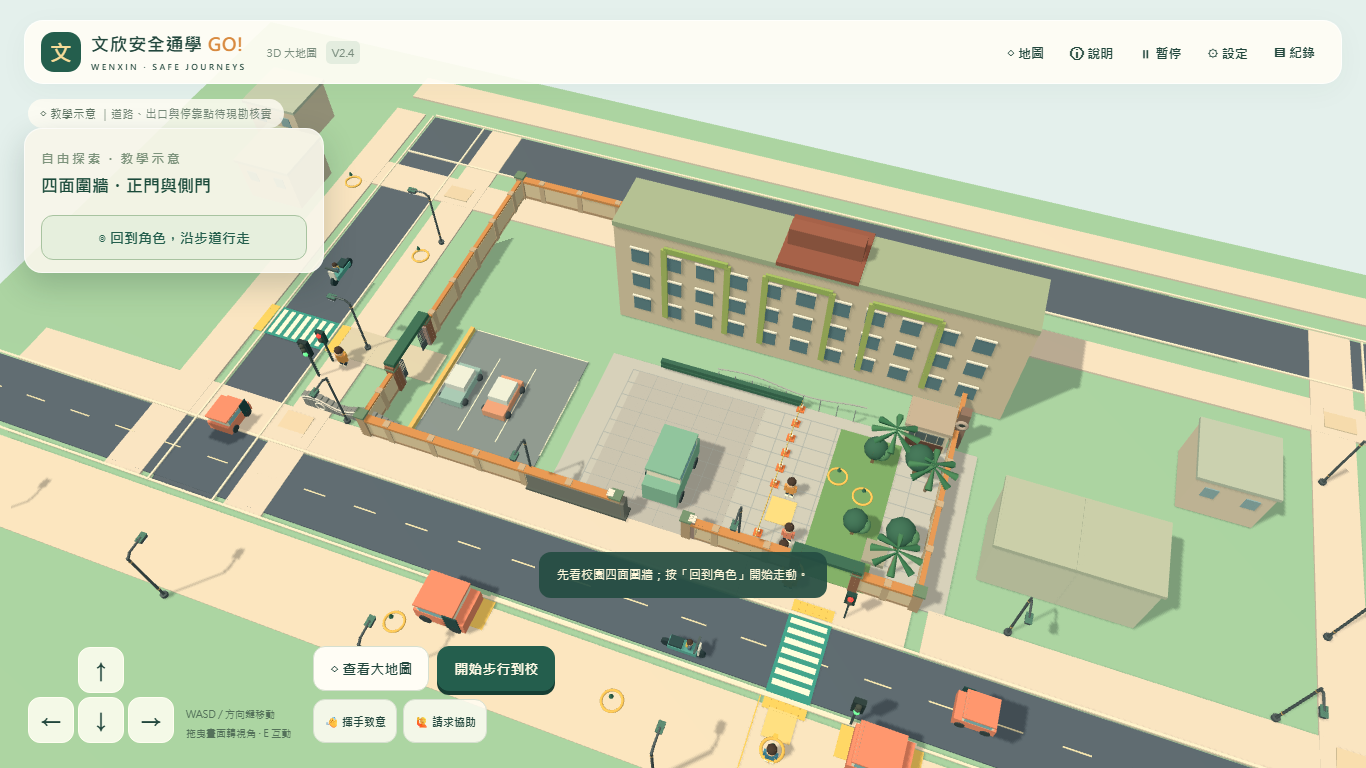
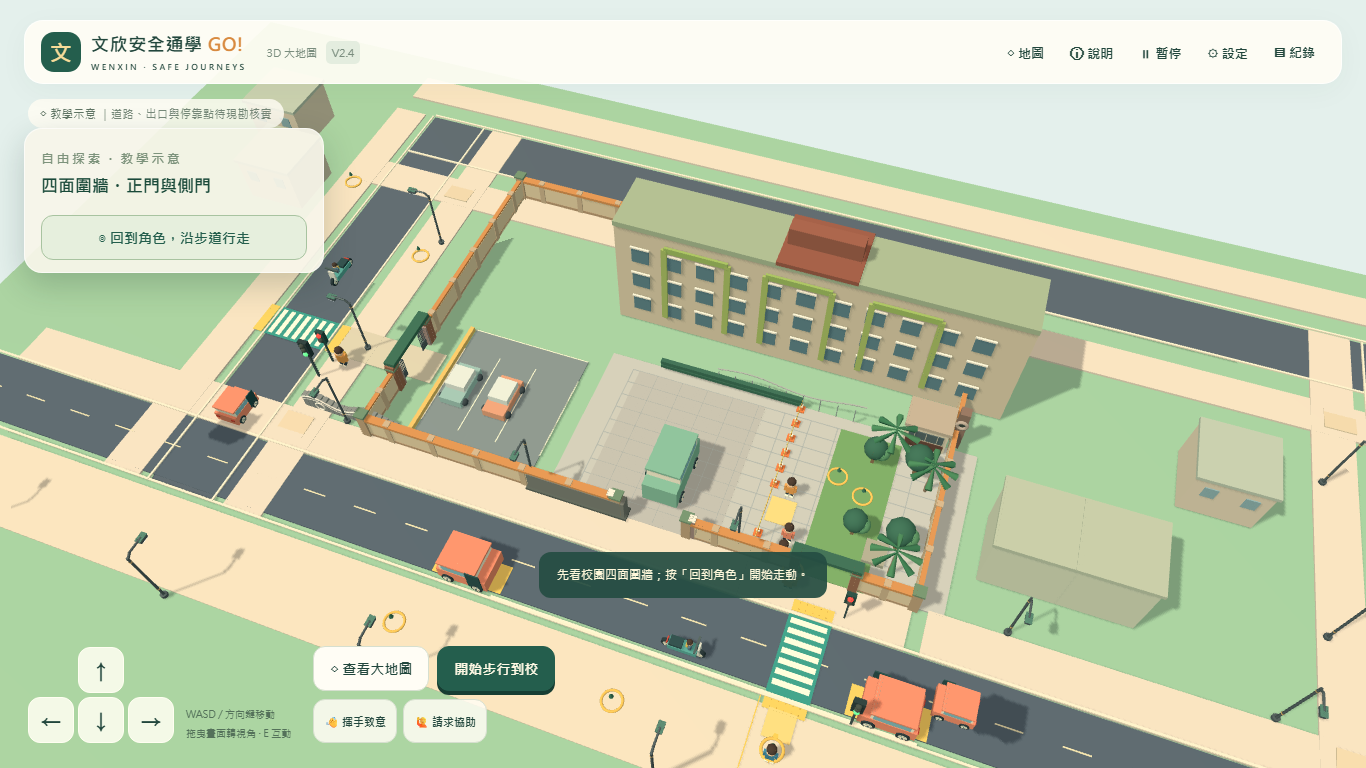
Animate vehicle wheels and braking in 3D

Changed region(s): [[0.6149, 0.875, 0.7379, 1.0], [0.2767, 0.6875, 0.3997, 0.8438], [0.1537, 0.5, 0.1845, 0.5625]]

diff --git a/src/world.ts b/src/world.ts
@@ -11,7 +11,7 @@ export class World {
   greenLamp!:THREE.Mesh;redLamp!:THREE.Mesh;guardArm!:THREE.Mesh;belt!:THREE.Mesh;parentBelt!:THREE.Mesh;helmet!:THREE.Mesh;stationRoof!:THREE.Mesh;
   sideGreenLamp!:THREE.Mesh;sideRedLamp!:THREE.Mesh;sideGuardArm!:THREE.Mesh;
   private pedestrianFigures:THREE.Group[]=[];private pedestrianFigureMaterial=this.mat(0x315f4e);private vehicleSignals:{red:THREE.Mesh;amber:THREE.Mesh;green:THREE.Mesh}[]=[];
-  yaw=.3;distance=25;overview=false;reduced=false;low=false;private focus=new THREE.Vector3(-3,0,-2);private ray=new THREE.Raycaster();private clock=0;private lastMode='';private objects:THREE.Object3D[]=[];private readonly labels=new Set<THREE.Sprite>();private readonly labelPosition=new THREE.Vector3();private readonly mapFog=new THREE.Fog(0xe4f0ec,75,225);
+  yaw=.3;distance=25;overview=false;reduced=false;low=false;private focus=new THREE.Vector3(-3,0,-2);private ray=new THREE.Raycaster();private clock=0;private lastMode='';private objects:THREE.Object3D[]=[];private readonly labels=new Set<THREE.Sprite>();private readonly labelPosition=new THREE.Vector3();private readonly mapFog=new THREE.Fog(0xe4f0ec,75,225);private readonly wheelOrigins=new WeakMap<THREE.Group,{x:number;z:number}>();
   constructor(readonly container:HTMLElement){
     this.scene.background=new THREE.Color(0xe4f0ec);this.scene.fog=this.mapFog;
     this.renderer=new THREE.WebGLRenderer({antialias:true,alpha:false,powerPreference:'high-performance'});this.renderer.setPixelRatio(Math.min(devicePixelRatio,1.7));this.renderer.shadowMap.enabled=true;this.renderer.shadowMap.type=THREE.PCFShadowMap;this.renderer.outputColorSpace=THREE.SRGBColorSpace;container.append(this.renderer.domElement);this.renderer.domElement.setAttribute('aria-label','可移動角色的 3D 文欣校門教學示意場景');
@@ -22,6 +22,26 @@ export class World {
   mat(color:number){return new THREE.MeshStandardMaterial({color,roughness:.84,metalness:0});}
   box(w:number,h:number,d:number,color:number,x:number,y:number,z:number,parent:THREE.Object3D=this.root){const mesh=new THREE.Mesh(new THREE.BoxGeometry(w,h,d),this.mat(color));mesh.position.set(x,y,z);mesh.castShadow=true;mesh.receiveShadow=true;parent.add(mesh);return mesh;}
   ball(r:number,color:number,x:number,y:number,z:number,parent:THREE.Object3D=this.root){const mesh=new THREE.Mesh(new THREE.SphereGeometry(r,10,7),this.mat(color));mesh.position.set(x,y,z);mesh.castShadow=true;parent.add(mesh);return mesh;}
+  private wheel(radius:number,width:number,x:number,y:number,z:number,parent:THREE.Group,side=0){
+    const rolling=new THREE.Group();rolling.position.set(x,y,z);rolling.userData.radius=radius;
+    const tire=new THREE.Mesh(new THREE.CylinderGeometry(radius,radius,width,18),this.mat(0x263a40));tire.rotation.z=Math.PI/2;tire.castShadow=true;rolling.add(tire);
+    for(const face of side===0?[-1,1]:[side]){
+      const rim=new THREE.Mesh(new THREE.CylinderGeometry(radius*.67,radius*.67,.025,18),this.mat(0xb6c8bd));rim.rotation.z=Math.PI/2;rim.position.x=face*(width/2+.015);rolling.add(rim);
+      for(let i=0;i<5;i++){const spoke=new THREE.Group();spoke.rotation.x=i*Math.PI*2/5;this.box(.035,radius*.62,.055,0xffedd0,face*(width/2+.038),radius*.34,0,spoke);rolling.add(spoke);}
+      const hub=new THREE.Mesh(new THREE.CylinderGeometry(radius*.17,radius*.17,.045,12),this.mat(0x486a70));hub.rotation.z=Math.PI/2;hub.position.x=face*(width/2+.05);rolling.add(hub);
+    }
+    parent.add(rolling);const wheels=(parent.userData.wheels??=[]) as THREE.Group[];wheels.push(rolling);return rolling;
+  }
+  private rollVehicle(vehicle:THREE.Group,dt:number){
+    const old=this.wheelOrigins.get(vehicle),next={x:vehicle.position.x,z:vehicle.position.z};this.wheelOrigins.set(vehicle,next);
+    if(!old||dt<=0)return;
+    const dx=next.x-old.x,dz=next.z-old.z;
+    if(Math.hypot(dx,dz)>8)return; // The next traffic cycle repositions a car offscreen.
+    const travel=dx*Math.sin(vehicle.rotation.y)+dz*Math.cos(vehicle.rotation.y);
+    for(const wheel of (vehicle.userData.wheels??[]) as THREE.Group[])wheel.rotation.x+=travel/((wheel.userData.radius as number)*vehicle.scale.x);
+  }
+  private wheelAngle(vehicle:THREE.Group){return (((vehicle.userData.wheels??[]) as THREE.Group[])[0]?.rotation.x??0).toFixed(3);}
+  private setBrakes(vehicle:THREE.Group,on:boolean){for(const lamp of (vehicle.userData.brakeLights??[]) as THREE.Mesh[]){const material=lamp.material as THREE.MeshStandardMaterial;material.emissive.setHex(on?0xff392d:0x000000);material.emissiveIntensity=on?1.2:0;}}
   label(text:string,x:number,y:number,z:number,width=4,parent:THREE.Object3D=this.root,bg='#fff8e6',fg='#234e43'){
     const canvas=document.createElement('canvas');canvas.width=768;canvas.height=160;const c=canvas.getContext('2d')!;c.fillStyle=bg;c.beginPath();c.roundRect(0,0,768,160,22);c.fill();c.fillStyle=fg;c.font='bold 62px "Microsoft JhengHei", sans-serif';c.textAlign='center';c.textBaseline='middle';c.fillText(text,384,82,730);const tex=new THREE.CanvasTexture(canvas);tex.colorSpace=THREE.SRGBColorSpace;const sprite=new THREE.Sprite(new THREE.SpriteMaterial({map:tex,depthTest:true}));sprite.position.set(x,y,z);sprite.scale.set(width,width*160/768,1);sprite.userData.labelText=text;sprite.visible=false;parent.add(sprite);this.labels.add(sprite);return sprite;
   }
@@ -96,7 +116,7 @@ export class World {
     this.label('正門向外看：左側樹蔭・學生步道',7,1.6,-5,6);this.label('正門向外看：右側安親班接駁車・示意',-7,2,-11,7);this.label('文昌五街・教學示意',0,2.7,13,5);this.label('校車區・校門外示意',30,2.7,13,5);
     this.label('汽車送學短停・正門西側示意',-16,2.7,13,6);this.label('汽車送學短停・正門東側示意',12,2.7,13,6);
     this.label('機車依序停妥・正門口示意',-1,2.5,15,5);this.label('機車依序停妥・側門口示意',-33,2.5,-15,5);
-    this.box(6,.03,2,0xeecb79,30,.02,8.6);this.box(5,.03,2,0xf1ce68,-16,.02,8.6);this.box(5,.03,2,0xf1ce68,12,.02,8.6);this.box(3,.05,3,0xc8d8c0,18,.03,11);
+    this.box(6,.03,2,0xeecb79,30,.02,8.6);this.box(5,.03,2,0xf1ce68,-16,.02,6);this.box(5,.03,2,0xf1ce68,12,.02,6);this.box(3,.05,3,0xc8d8c0,18,.03,11);
     this.box(5,.12,42,0x566675,-38,-.1,-13.5);this.label('復興北路・示意',-38,2,-3,4);this.box(5,.12,42,0x566675,43,-.1,-13.5);this.label('文化一路・示意',43,2,-3,4);this.box(85,.12,5,0x566675,2,-.1,-32);this.label('復興一路・示意',2,2,-32,4);
     this.box(.07,.03,6,palette.yellow,4.4,.04,10.5);this.label('留在人行空間候車',2,1,13.5,3);
     this.box(1.8,.04,2,0xf4d686,2,.08,-5);this.box(1.8,.04,1.8,0xf4d686,6,.08,9);
@@ -174,16 +194,18 @@ export class World {
     },undefined,()=>{this.container.dataset.streetAssets='failed';this.label('路燈模型待載入',-6,2,13,3);});
   }
   buildExploreMarkers(){this.root.add(this.exploreMarkers);for(const site of exploreSites){const g=new THREE.Group();const ring=new THREE.Mesh(new THREE.TorusGeometry(.66,.09,8,24),this.mat(0xf3c55e));ring.rotation.x=-Math.PI/2;ring.position.y=.11;g.add(ring);const pin=new THREE.Mesh(new THREE.ConeGeometry(.16,.38,7),this.mat(0x34705c));pin.position.y=1.1;g.add(pin);this.label(`${site.scenario.icon} ${site.scenario.label}`,0,1.9,0,3.3,g);g.position.set(site.entry.x,0,site.entry.z);g.userData.siteId=site.scenario.id;this.exploreMarkers.add(g);}}
-  buildLandmarkVehicles(){this.root.add(this.landmarkVehicles);for(const [kind,x,z] of [['school_bus',30,9],['parent',-16,9],['parent',12,9],['scooter',-1,6.5],['scooter',-38,-14],['after_school_shuttle',-6,-5],['mrt',64,3]] as const){const vehicle=this.makeVehicle(kind);vehicle.position.set(x,0,z);if(kind!=='mrt'&&(z>=7||kind==='scooter'&&x===-1))vehicle.rotation.y=Math.PI/2;this.landmarkVehicles.add(vehicle);}}
+  buildLandmarkVehicles(){this.root.add(this.landmarkVehicles);for(const [kind,x,z] of [['school_bus',30,9],['parent',-16,6],['parent',12,6],['scooter',-1,6.5],['scooter',-38,-14],['after_school_shuttle',-6,-5],['mrt',64,3]] as const){const vehicle=this.makeVehicle(kind);vehicle.position.set(x,0,z);if(kind!=='mrt'&&(z>=7||kind==='parent'||kind==='scooter'&&x===-1))vehicle.rotation.y=x>=0?-Math.PI/2:Math.PI/2;this.landmarkVehicles.add(vehicle);}}
   cone(x:number,z:number){this.box(.58,.1,.58,0xf37f44,x,.1,z);const cone=new THREE.Mesh(new THREE.ConeGeometry(.23,.75,8),this.mat(0xf4874c));cone.position.set(x,.5,z);cone.castShadow=true;this.root.add(cone);this.box(.24,.13,.24,0xfff9e6,x,.54,z);}
   chain(start:number,end:number){for(let z=start;z<end;z+=.15){const mesh=new THREE.Mesh(new THREE.TorusGeometry(.1,.022,4,7),this.mat(0xf2d56e));mesh.rotation.y=Math.PI/2;mesh.rotation.x=Math.round(z/.15)%2?Math.PI/3:0;mesh.position.set(1,.95,z);this.root.add(mesh);}}
-  makeTrain(){const g=new THREE.Group();for(const offset of [-8,0,8]){const car=new THREE.Group();this.box(2.55,2.35,7.45,0xb4a0ca,0,1.47,0,car);this.box(2.55,.25,7.45,0x775e9b,0,2.75,0,car);for(const z of [-2.6,-1.5,1.45,2.55])for(const x of [-1.3,1.3])this.box(.04,.85,.8,0x83bfcc,x,2,z,car);this.box(.07,1.85,1.25,0xe8e3d0,-1.32,1.45,.1,car).userData.action='board';for(const z of [-2.4,2.4])this.box(.4,.48,.65,0x34454e,0,.38,z,car);car.position.z=offset;g.add(car);}this.label('普通車・3 節車廂・示意',0,3.4,0,5,g);g.traverse(o=>{o.userData.vehicle=true;});return g;}
+  makeTrain(){const g=new THREE.Group();for(const offset of [-8,0,8]){const car=new THREE.Group();this.box(2.55,2.35,7.45,0xb4a0ca,0,1.47,0,car);this.box(2.55,.25,7.45,0x775e9b,0,2.75,0,car);for(const z of [-2.6,-1.5,1.45,2.55])for(const x of [-1.3,1.3])this.box(.04,.85,.8,0x83bfcc,x,2,z,car);this.box(.07,1.85,1.25,0xe8e3d0,-1.32,1.45,.1,car).userData.action='board';for(const z of [-2.4,2.4]){this.box(.4,.48,.65,0x34454e,0,.38,z,car);for(const x of [-1.16,1.16])this.wheel(.27,.14,x,.33,z,car,Math.sign(x));}car.position.z=offset;g.add(car);const wheels=(g.userData.wheels??=[]) as THREE.Group[];wheels.push(...(car.userData.wheels as THREE.Group[]));}this.label('普通車・3 節車廂・示意',0,3.4,0,5,g);g.traverse(o=>{o.userData.vehicle=true;});return g;}
   makeVehicle(kind:string){if(kind==='mrt')return this.makeTrain();const g=new THREE.Group();if(kind==='scooter'){
-      for(const z of [-1.05,1.05]){const wheel=new THREE.Mesh(new THREE.CylinderGeometry(.42,.42,.22,14),this.mat(0x263f46));wheel.rotation.z=Math.PI/2;wheel.position.set(0,.43,z);g.add(wheel);}
-      this.box(.72,.42,1.9,0x55a7a0,0,.66,0,g);this.box(.65,.22,.85,0x284c50,0,1,-.45,g);this.box(.12,1.05,.12,0x4e6264,0,1.1,.9,g);this.box(1.15,.12,.14,0x4e6264,0,1.6,.9,g);this.box(.55,.9,.12,0xe3e7dd,0,1.05,1.06,g);const rider=this.person(0x547c91);rider.scale.setScalar(.62);rider.position.set(0,.62,.45);g.add(rider);this.label('機車接送・示意',0,2.5,0,3,g);g.traverse(o=>{o.userData.vehicle=true;});return g;
+      for(const z of [-1.05,1.05])this.wheel(.42,.22,0,.43,z,g);
+      this.box(.72,.42,1.9,0x55a7a0,0,.66,0,g);this.box(.65,.22,.85,0x284c50,0,1,-.45,g);this.box(.12,1.05,.12,0x4e6264,0,1.1,.9,g);this.box(1.15,.12,.14,0x4e6264,0,1.6,.9,g);this.box(.55,.9,.12,0xe3e7dd,0,1.05,1.06,g);g.userData.brakeLights=[this.box(.45,.18,.08,0xc9493c,0,.91,-1.04,g)];const rider=this.person(0x547c91);rider.scale.setScalar(.62);rider.position.set(0,.62,.45);g.add(rider);this.label('機車接送・示意',0,2.5,0,3,g);g.traverse(o=>{o.userData.vehicle=true;});return g;
     }const isCar=kind==='car'||kind==='parent',isShuttle=kind==='after_school_shuttle';const length=isCar?3.5:isShuttle?4.8:7.5;const color=isCar?palette.coral:kind==='school_bus'?palette.yellow:palette.mint;
     this.box(2.5,isCar?1.1:1.8,length,color,0,isCar?.9:1.4,0,g);this.box(2.4,isCar?.9:1,length*.73,0xf7f3de,0,isCar?1.7:2.6,-.2,g);this.box(2.43,.65,length*.64,0x85bdc9,0,isCar?1.7:2.65,-.2,g);this.box(2.5,.18,length*.79,color,0,isCar?2.2:3.2,-.2,g);
-    for(const x of [-1.23,1.23])for(const z of [-length*.3,length*.3]){const wheel=new THREE.Mesh(new THREE.CylinderGeometry(.43,.43,.22,12),this.mat(0x34464b));wheel.rotation.z=Math.PI/2;wheel.position.set(x,.5,z);g.add(wheel);}
+    for(const x of [-1.23,1.23])for(const z of [-length*.3,length*.3])this.wheel(.43,.22,x,.5,z,g,Math.sign(x));
+    g.userData.brakeLights=[-1,1].map(side=>this.box(.38,.19,.08,0xc74739,side*.88,1.08,-length/2-.05,g));
+    if(kind==='parent')for(const [x,z,shirt] of [[-.58,-.35,0x547c91],[.58,.65,0x5b7f83]] as const){const rider=this.person(shirt);rider.scale.setScalar(.48);rider.position.set(x,.9,z);g.add(rider);}
     this.box(.08,1.8,1,0x244e50,-1.3,1.45,1,g).userData.action='board';this.label(isCar?'短暫停靠・示意':kind==='school_bus'?'校車 01・校門外':isShuttle?'★ 01 安親班':'示意路線 01',0,3.7,0,4,g);
     g.traverse(o=>{o.userData.vehicle=true;});return g;
   }
@@ -253,38 +275,52 @@ export class World {
     this.landmarkVehicles.visible=!j;
     const phase=(j?.elapsed??this.clock)%18;const pedestrianGreen=!!j&&(!!j.facts.green||j.facts.crossing===true)||!j&&phase>=6&&phase<15;
     this.showSignals(pedestrianGreen,!pedestrianGreen);
-    const mainCarX=pedestrianGreen?9.5:phase<6?18-phase*8.5/6:phase>=15?9.5-(phase-15)*8:9.5;
-    const sideCarZ=pedestrianGreen?-4:phase<6?2-phase:phase>=15?-4-(phase-15)*7:-4;
+    const approachRemaining=(1-Math.min(phase/6,1))**2;
+    const mainCarX=pedestrianGreen?9.5:phase<6?9.5+8.5*approachRemaining:phase>=15?9.5-(phase-15)*8:9.5;
+    const sideCarZ=pedestrianGreen?-4:phase<6?-4+6*approachRemaining:phase>=15?-4-(phase-15)*7:-4;
     this.trafficCar.position.set(mainCarX,0,4.5);this.trafficCar.rotation.y=-Math.PI/2;
     this.sideTrafficCar.position.set(-38,0,sideCarZ);this.sideTrafficCar.rotation.y=Math.PI;
+    this.rollVehicle(this.trafficCar,dt);this.rollVehicle(this.sideTrafficCar,dt);
+    const intersectionBraking=pedestrianGreen||phase>=4.5&&phase<6;
+    this.setBrakes(this.trafficCar,intersectionBraking);this.setBrakes(this.sideTrafficCar,intersectionBraking);
     this.container.dataset.mainCar=pedestrianGreen?'stopped':'moving';this.container.dataset.sideCar=pedestrianGreen?'stopped':'moving';
+    this.container.dataset.mainWheelAngle=this.wheelAngle(this.trafficCar);this.container.dataset.sideWheelAngle=this.wheelAngle(this.sideTrafficCar);
+    this.container.dataset.mainBrake=String(intersectionBraking);this.container.dataset.sideBrake=String(intersectionBraking);
     if(j){
       const modeChanged=this.lastMode!==j.scenario.mode;
       if(modeChanged){this.root.remove(this.vehicle);this.vehicle.traverse(o=>{if(o instanceof THREE.Mesh){o.geometry.dispose();if(o.material instanceof THREE.Material)o.material.dispose();}if(o instanceof THREE.Sprite){this.labels.delete(o);o.material.map?.dispose();o.material.dispose();}});this.vehicle=this.makeVehicle(j.scenario.mode);this.root.add(this.vehicle);this.lastMode=j.scenario.mode;}
-      const stop=j.vehiclePosition;this.vehicle.visible=!!stop;if(stop)this.vehicle.position.set(j.position.x>70&&!j.inside?86:stop.x,0,j.position.x>70&&!j.inside?1:stop.z);this.vehicle.rotation.y=stop&&(stop.z>=7||j.scenario.id==='scooter_main')?Math.PI/2:0;
+      const stop=j.vehiclePosition;this.vehicle.visible=!!stop;if(stop)this.vehicle.position.set(j.position.x>70&&!j.inside?86:stop.x,0,j.position.x>70&&!j.inside?1:stop.z);this.vehicle.rotation.y=stop&&(stop.z>=7||j.scenario.mode==='parent'||j.scenario.id==='scooter_main')?(stop.x>=0?-Math.PI/2:Math.PI/2):0;
+      if(stop)this.rollVehicle(this.vehicle,dt);else this.wheelOrigins.delete(this.vehicle);
+      const vehicleBraking=!!stop&&j.departAt===null&&(j.facts.vehicleStopped===true||j.rideAt===null&&j.vehicleProgress>.65);
+      this.setBrakes(this.vehicle,vehicleBraking);this.container.dataset.vehicleWheelAngle=this.wheelAngle(this.vehicle);this.container.dataset.vehicleBrake=String(vehicleBraking);
+      const parentArrival=j.scenario.mode==='parent'&&j.inside&&j.current?.id==='park'&&!!stop;
+      this.container.dataset.parentArrivalView=String(parentArrival);
       const scooterInside=j.scenario.mode==='scooter'&&j.inside;
+      this.avatar.visible=!parentArrival;
       if(scooterInside&&stop){const main=j.scenario.id==='scooter_main';this.avatar.position.set(stop.x-(main?.5:0),.62,stop.z-(main?0:.5));this.avatar.rotation.y=this.vehicle.rotation.y;this.avatar.scale.setScalar(.62);}
       else{this.avatar.position.set(j.position.x,!this.reduced&&j.stoppedFor===0?Math.sin(this.clock*11)*.045:0,j.position.z);this.avatar.scale.setScalar(1);}
-      this.transportCabin.visible=!['parent','scooter'].includes(j.scenario.mode);this.scooterCabin.visible=false;this.parentCabin.visible=j.scenario.mode==='parent';this.belt.visible=j.scenario.mode!=='parent'&&!!j.facts.buckled;this.parentBelt.visible=j.scenario.mode==='parent'&&!!j.facts.buckled;this.helmet.visible=j.scenario.mode==='scooter'&&!!j.facts.helmeted;
+      this.transportCabin.visible=!['parent','scooter'].includes(j.scenario.mode);this.scooterCabin.visible=false;this.parentCabin.visible=j.scenario.mode==='parent'&&!parentArrival;this.belt.visible=j.scenario.mode!=='parent'&&!!j.facts.buckled;this.parentBelt.visible=j.scenario.mode==='parent'&&!!j.facts.buckled;this.helmet.visible=j.scenario.mode==='scooter'&&!!j.facts.helmeted;
       const lead=j.scenario.mode==='scooter'&&j.elapsed<3&&j.departAt===null;
       this.leadScooter.visible=lead;
-      if(lead){const stopPoint=j.scenario.stop!;this.leadScooter.position.set(j.scenario.id==='scooter_side'?stopPoint.x:stopPoint.x+j.elapsed*10/3,0,j.scenario.id==='scooter_side'?stopPoint.z-j.elapsed*8/3:stopPoint.z);this.leadScooter.rotation.y=j.scenario.id==='scooter_side'?Math.PI:Math.PI/2;}
+      if(lead){const stopPoint=j.scenario.stop!;this.leadScooter.position.set(j.scenario.id==='scooter_side'?stopPoint.x:stopPoint.x+j.elapsed*10/3,0,j.scenario.id==='scooter_side'?stopPoint.z-j.elapsed*8/3:stopPoint.z);this.leadScooter.rotation.y=j.scenario.id==='scooter_side'?Math.PI:Math.PI/2;this.rollVehicle(this.leadScooter,dt);}else this.wheelOrigins.delete(this.leadScooter);
       this.container.dataset.scooterQueue=j.scenario.mode==='scooter'?(lead?'lead-departing':j.facts.vehicleStopped?'stopped':'arriving'):'off';
       this.container.dataset.scooterLeadX=lead?this.leadScooter.position.x.toFixed(2):'';
+      this.container.dataset.scooterLeadWheelAngle=this.wheelAngle(this.leadScooter);
       this.gate.visible=!j.gateOpen;
       const yielded=!!j.facts.trafficYielded||j.facts.crossing===true;this.guardArm.rotation.z=yielded?1.4:0;this.sideGuardArm.rotation.z=yielded?1.4:0;
       this.passenger.position.set(j.scenario.mode==='after_school_shuttle'?3:j.scenario.start.x+1,0,j.scenario.mode==='after_school_shuttle'?-6.7:j.scenario.mode==='scooter'?j.scenario.start.z:11);this.passenger.visible=j.queueAt!==null&&!j.facts.studentTurn;
-      const target=j.current?.target??j.position;this.marker.visible=!j.complete&&!scooterInside;this.marker.position.set(target.x,0,target.z);this.marker.rotation.y=this.reduced?0:this.clock*.5;
+      const target=j.current?.target??j.position;this.marker.visible=!j.complete&&!scooterInside&&!parentArrival;this.marker.position.set(target.x,0,target.z);this.marker.rotation.y=this.reduced?0:this.clock*.5;
       this.improvement.visible=j.scenario.mode==='human'&&j.index>=3;
       const desired=new THREE.Vector3(j.position.x-1.5,0,j.position.z*.5-1);
       if(j.scenario.id==='walk_side'&&j.index<3&&j.position.x< -40)desired.set(-36,0,-16);
-      if(j.inside)desired.set(scooterInside?(lead?(this.avatar.position.x+this.leadScooter.position.x)/2:this.avatar.position.x):j.scenario.mode==='parent'?130:110,0,scooterInside?(lead?(this.avatar.position.z+this.leadScooter.position.z)/2:this.avatar.position.z):0);
+      if(parentArrival)desired.set(stop!.x,0,stop!.z);
+      else if(j.inside)desired.set(scooterInside?(lead?(this.avatar.position.x+this.leadScooter.position.x)/2:this.avatar.position.x):j.scenario.mode==='parent'?130:110,0,scooterInside?(lead?(this.avatar.position.z+this.leadScooter.position.z)/2:this.avatar.position.z):0);
       if(j.position.x>70&&!j.inside)desired.set(81,0,-1);
       if(j.scenario.mode==='mrt'&&j.position.x>45&&j.position.x<70)desired.set(j.position.x,0,j.position.z);
       // Camera follows a scene transition immediately, rather than flying across unrelated scenes.
       this.focus.lerp(desired,this.reduced||modeChanged||this.focus.distanceTo(desired)>18?1:Math.min(dt*4,1));
     }else if(explore){
-      this.avatar.position.set(explore.x,0,explore.z);this.avatar.scale.setScalar(1);this.helmet.visible=false;this.transportCabin.visible=false;this.scooterCabin.visible=false;this.parentCabin.visible=false;this.vehicle.visible=false;this.leadScooter.visible=false;this.container.dataset.scooterQueue='off';this.passenger.visible=false;this.gate.visible=true;this.marker.visible=!!exploreTarget;if(exploreTarget)this.marker.position.set(exploreTarget.x,0,exploreTarget.z);
+      this.avatar.visible=true;this.avatar.position.set(explore.x,0,explore.z);this.avatar.scale.setScalar(1);this.helmet.visible=false;this.transportCabin.visible=false;this.scooterCabin.visible=false;this.parentCabin.visible=false;this.vehicle.visible=false;this.leadScooter.visible=false;this.container.dataset.scooterQueue='off';this.container.dataset.parentArrivalView='false';this.passenger.visible=false;this.gate.visible=true;this.marker.visible=!!exploreTarget;if(exploreTarget)this.marker.position.set(exploreTarget.x,0,exploreTarget.z);
       const desired=new THREE.Vector3(explore.x-1.5,0,explore.z*.5-1);if(explore.x< -40&&explore.z<0)desired.set(-36,0,-16);this.focus.lerp(desired,this.focus.distanceTo(desired)>18?1:Math.min(dt*4,1));
     }
     const portrait=this.camera.aspect<.8;
@@ -292,7 +328,7 @@ export class World {
       this.focus.set(portrait?-10:-8,0,-13);const range=portrait?(this.camera.aspect<.6?90:66):43;
       this.camera.position.set(this.focus.x+range*.34,range*1.38,this.focus.z+range*.95);
     }else{
-      const distance=(j?.inside?(j.scenario.mode==='scooter'?25:17):this.distance)*(portrait?1.28:1);
+      const distance=(j?.inside?(j.scenario.mode==='scooter'?25:j.scenario.mode==='parent'&&j.current?.id==='park'?21:17):this.distance)*(portrait?1.28:1);
       this.camera.position.set(this.focus.x+Math.sin(this.yaw)*distance,this.focus.y+distance*.88,this.focus.z+Math.cos(this.yaw)*distance);
     }
     this.updateLabels(j?.scenario.mode==='scooter'&&j.inside?{x:this.avatar.position.x,z:this.avatar.position.z}:j?.position??explore);

diff --git a/tests/safety/evaluator.test.ts b/tests/safety/evaluator.test.ts
@@ -27,8 +27,9 @@ describe('V2.4 continuous chain, corners, endpoint closure and swept collisions'
 });
 describe('V2.4 scene data validation',()=>{
   it('exterior school bus and courtyard shuttle never share stop coordinates',()=>{const a=scenarios.find(s=>s.mode==='school_bus')!,b=scenarios.find(s=>s.mode==='after_school_shuttle')!;expect(a.stop).not.toEqual(b.stop);expect(()=>validateScenario({...a,stop:{x:6,z:-5}})).toThrow();expect(()=>validateScenario({...b,stop:{x:6,z:9}})).toThrow();});
-  it('school bus and both main-gate car pickup zones remain separate',()=>{const school=scenarios.find(s=>s.mode==='school_bus')!,cars=scenarios.filter(s=>s.mode==='parent');expect(cars).toHaveLength(2);expect(cars.map(s=>s.stop!.x).sort((a,b)=>a-b)).toEqual([-16,12]);for(const car of cars){expect(Math.hypot(school.stop!.x-car.stop!.x,school.stop!.z-car.stop!.z)).toBeGreaterThan(10);expect(()=>validateScenario({...car,stop:school.stop})).toThrow();}});
+  it('school bus and both road-edge car pickup zones remain separate from pedestrians',()=>{const school=scenarios.find(s=>s.mode==='school_bus')!,cars=scenarios.filter(s=>s.mode==='parent');expect(cars).toHaveLength(2);expect(cars.map(s=>s.stop!.x).sort((a,b)=>a-b)).toEqual([-16,12]);for(const car of cars){expect(car.stop!.z).toBe(6);expect(onPedestrianSpace(car.stop!)).toBe(false);expect(Math.hypot(school.stop!.x-car.stop!.x,school.stop!.z-car.stop!.z)).toBeGreaterThan(10);expect(()=>validateScenario({...car,stop:school.stop})).toThrow();}});
   it('each parent car starts seated, drops off on its own side, then reaches the sidewalk',()=>{for(const car of scenarios.filter(s=>s.mode==='parent')){const j=new Journey(car);expect(j.steps.slice(0,7).map(s=>s.id)).toEqual(['park','unbuckle','rear','side','alight','clearCar','walkToCrossing']);expect(j.steps.map(s=>s.id)).not.toContain('queue');expect(j.steps.map(s=>s.id)).not.toContain('board');expect(j.inside).toBe(true);expect(j.facts.buckled).toBe(true);j.update(5);for(let i=0;i<5;i++)expect(j.attempt(j.current.action),`${car.id}/${j.current.id}`).toBe(true);expect(j.position).toEqual({x:car.stop!.x-2.4,z:10.8});j.position={...j.current.target};expect(j.attempt('clearCar')).toBe(true);expect(j.facts.doorClosed).toBe(true);expect(j.departAt).not.toBeNull();}});
+  it('visible car approach slows before stopping while the safety gate stays closed',()=>{const car=scenarios.find(s=>s.id==='parent')!;const j=new Journey(car);const start=j.vehiclePosition!;j.update(2.5);const halfway=j.vehiclePosition!;expect(Math.abs(halfway.x-car.stop!.x)).toBeLessThan(Math.abs(start.x-car.stop!.x)/2);expect(j.facts.vehicleStopped).toBe(false);expect(j.attempt('park')).toBe(false);expect(j.blocked?.ruleId).toBe('parentPark');j.retry();j.update(2.5);expect(j.vehiclePosition).toEqual(car.stop);expect(j.facts.vehicleStopped).toBe(true);});
   it('motorcycle pickup is at separate road-side main and Fuxing North side-gate sites',()=>{const bikes=scenarios.filter(s=>s.mode==='scooter');expect(bikes.map(s=>s.id)).toEqual(['scooter_main','scooter_side']);expect(bikes[0].stop).toEqual({x:-1,z:6.5});expect(onPedestrianSpace(bikes[0].stop!)).toBe(false);expect(bikes[1].stop).toEqual({x:-38,z:-14});expect(()=>validateScenario({...bikes[0],stop:{x:-1,z:9}})).toThrow();expect(()=>validateScenario({...bikes[1],stop:{x:6,z:-5}})).toThrow();});
   it('the MRT journey requires walking to a station, entering, tapping, boarding and exiting',()=>{const mrt=scenarios.find(s=>s.mode==='mrt')!;const ids=new Journey(mrt).steps.map(s=>s.id);expect(ids.slice(0,5)).toEqual(['assembly','station','fareGate','identify','queue']);expect(ids).toContain('platform');expect(ids.indexOf('stationExit')).toBeGreaterThan(ids.indexOf('alight'));expect(ids.indexOf('walkToSchool')).toBeGreaterThan(ids.indexOf('stationExit'));});
   it('one map has all practice sites but blocks road and chain shortcuts',()=>{expect(exploreSites).toHaveLength(scenarios.length);const e=new Exploration();expect(nearbySite(e.position)?.scenario.id).toBe('walk');expect(e.move(1,0)).toBe(true);e.position={x:6,z:8};let blocked='';e.onResult=r=>{blocked=r.ruleId;};expect(e.move(0,-2)).toBe(false);expect(blocked).toBe('vehicleLane');e.position={x:3,z:-5};expect(e.move(-5,0)).toBe(false);expect(blocked).toBe('barrier');});

diff --git a/tests/e2e/game.spec.ts b/tests/e2e/game.spec.ts
@@ -31,6 +31,43 @@ test('main and side crossing show a green walking figure only while cars stop',a
   await expect(page.locator('#status-banner')).toContainText('小綠人亮起');
   mkdirSync('docs/screenshots',{recursive:true});await page.screenshot({path:'docs/screenshots/green-man-crossing-1366.png'});
 });
+test('3D wheels rotate with road traffic and scooters, then stop with brake lights',async({page})=>{
+  await page.setViewportSize({width:1366,height:768});await page.goto('/');await page.locator('#start').click();
+  const world=page.locator('#world');
+  const movingAngle=Number(await world.getAttribute('data-main-wheel-angle'));
+  await expect.poll(async()=>Math.abs(Number(await world.getAttribute('data-main-wheel-angle'))-movingAngle)).toBeGreaterThan(.25);
+  await expect(world).toHaveAttribute('data-main-car','stopped',{timeout:15000});
+  await expect(world).toHaveAttribute('data-main-brake','true');
+  const stoppedAngle=Number(await world.getAttribute('data-main-wheel-angle'));
+  await page.waitForTimeout(450);
+  expect(Number(await world.getAttribute('data-main-wheel-angle'))).toBeCloseTo(stoppedAngle,2);
+  mkdirSync('docs/screenshots',{recursive:true});await page.screenshot({path:'docs/screenshots/wheels-stopped-1366.png'});
+  await chooseSite(page,'scooter_main');
+  const leadAngle=Number(await world.getAttribute('data-scooter-lead-wheel-angle'));
+  await expect.poll(async()=>Math.abs(Number(await world.getAttribute('data-scooter-lead-wheel-angle'))-leadAngle)).toBeGreaterThan(.25);
+  await expect(world).toHaveAttribute('data-scooter-queue','arriving',{timeout:10000});
+  const arrivalAngle=Number(await world.getAttribute('data-vehicle-wheel-angle'));
+  await expect.poll(async()=>Math.abs(Number(await world.getAttribute('data-vehicle-wheel-angle'))-arrivalAngle)).toBeGreaterThan(.25);
+  await page.screenshot({path:'docs/screenshots/wheels-rolling-1366.png'});
+  await expect(world).toHaveAttribute('data-scooter-queue','stopped',{timeout:15000});
+  await expect(world).toHaveAttribute('data-vehicle-brake','true');
+  const scooterStoppedAngle=Number(await world.getAttribute('data-vehicle-wheel-angle'));
+  await page.waitForTimeout(450);
+  expect(Number(await world.getAttribute('data-vehicle-wheel-angle'))).toBeCloseTo(scooterStoppedAngle,2);
+  await chooseSite(page,'parent');
+  await expect(world).toHaveAttribute('data-parent-arrival-view','true');
+  const parentAngle=Number(await world.getAttribute('data-vehicle-wheel-angle'));
+  await expect.poll(async()=>Math.abs(Number(await world.getAttribute('data-vehicle-wheel-angle'))-parentAngle)).toBeGreaterThan(.25);
+  await page.screenshot({path:'docs/screenshots/parent-wheels-rolling-1366.png'});
+  await expect(world).toHaveAttribute('data-vehicle-brake','true',{timeout:10000});
+  await expect(page.locator('#signal')).toHaveText('👀 後方暫時淨空',{timeout:15000});
+  const parentStoppedAngle=Number(await world.getAttribute('data-vehicle-wheel-angle'));
+  await page.waitForTimeout(450);
+  expect(Number(await world.getAttribute('data-vehicle-wheel-angle'))).toBeCloseTo(parentStoppedAngle,2);
+  await page.screenshot({path:'docs/screenshots/parent-wheels-stopped-1366.png'});
+  await page.locator('#interact').click();
+  await expect(world).toHaveAttribute('data-parent-arrival-view','false');
+});
 async function moveAndAct(page:Page,touch=false){
   const before=await stage(page);if(before==='completed')return;
   const mode=await page.locator('#app').getAttribute('data-mode');

diff --git a/src/game/journey.ts b/src/game/journey.ts
@@ -86,11 +86,13 @@ export class Journey {
   get inside(){return this.position.x>105&&this.position.x<115||this.scenario.mode==='scooter'&&this.position.x>117&&this.position.x<123||this.scenario.mode==='parent'&&this.position.x>127&&this.position.x<133;}
   get vehiclePosition(){
     const stop=this.scenario.stop;if(!stop)return undefined;
-    if(this.departAt!==null){const progress=Math.min((this.elapsed-this.departAt)/3,1);if(progress>=1)return undefined;return this.scenario.id==='scooter_side'?{x:stop.x,z:stop.z-progress*10}:{x:stop.x+progress*(stop.x<0?-12:12),z:stop.z};}
-    if(this.scenario.mode==='parent')return {x:stop.x+(1-this.vehicleProgress)*(stop.x<0?-12:12),z:stop.z};
-    if(this.scenario.id==='scooter_main')return {x:stop.x-(1-this.vehicleProgress)*8,z:stop.z};
-    if(this.scenario.id==='scooter_side')return {x:stop.x,z:stop.z-(1-this.vehicleProgress)*12};
-    return stop.z>=7?{x:stop.x+(1-this.vehicleProgress)*12,z:stop.z}:{x:stop.x,z:stop.z+(1-this.vehicleProgress)*(this.scenario.mode==='after_school_shuttle'?7:12)};
+    if(this.departAt!==null){const progress=Math.min((this.elapsed-this.departAt)/3,1);if(progress>=1)return undefined;if(this.scenario.mode==='parent')return {x:stop.x+progress*(stop.x<0?12:-12),z:stop.z};if(this.scenario.id==='scooter_main')return {x:stop.x+progress*12,z:stop.z};if(this.scenario.id==='scooter_side')return {x:stop.x,z:stop.z-progress*10};return {x:stop.x+progress*(stop.x<0?-12:12),z:stop.z};}
+    // The approach eases into a full stop; the safety gate still uses vehicleProgress === 1.
+    const remaining=(1-this.vehicleProgress)**2;
+    if(this.scenario.mode==='parent')return {x:stop.x+remaining*(stop.x<0?-12:12),z:stop.z};
+    if(this.scenario.id==='scooter_main')return {x:stop.x-remaining*8,z:stop.z};
+    if(this.scenario.id==='scooter_side')return {x:stop.x,z:stop.z-remaining*12};
+    return stop.z>=7?{x:stop.x+remaining*12,z:stop.z}:{x:stop.x,z:stop.z+remaining*(this.scenario.mode==='after_school_shuttle'?7:12)};
   }
   get gateOpen(){return this.scenario.mode==='after_school_shuttle'&&this.current?.id==='board'&&this.evaluator.evaluate('gate',this.facts).allowed;}
   get signal(){return this.elapsed%18>=6&&this.elapsed%18<15;}
@@ -177,7 +179,7 @@ export class Journey {
       const stationWalk=this.scenario.mode==='mrt'&&to.x>=47&&to.x<=62&&to.z>=-4&&to.z<=12;
       if(!(onPedestrianSpace(to)||stationWalk||onMarkedCrosswalk(to))){if(otherRoads.some(road=>intersects(this.position,to,road)))this.evaluate('vehicleLane',{safePlace:false});return false;}
       if(intersects(this.position,to,campusParkingArea)){this.evaluate('vehicleLane',{safePlace:false});return false;}
-      if(this.scenario.stop&&this.scenario.stop.z>=7&&intersects(this.position,to,{minX:this.scenario.stop.x-2,maxX:this.scenario.stop.x+2,minZ:7.1,maxZ:10.4})){
+      if(this.scenario.stop&&(this.scenario.stop.z>=7||this.scenario.mode==='parent')&&intersects(this.position,to,{minX:this.scenario.stop.x-2,maxX:this.scenario.stop.x+2,minZ:this.scenario.mode==='parent'?4.6:7.1,maxZ:this.scenario.mode==='parent'?7.35:10.4})){
         this.evaluate('vehicleLane',{safePlace:false});return false;
       }
       if(crossesVehicleGate(this.position,to)){this.evaluate('vehicleLane',{safePlace:false});return false;}

diff --git a/src/main.ts b/src/main.ts
@@ -158,7 +158,7 @@ function frame(now:number){
     let dx=touch.x+(keys.has('d')||keys.has('arrowright')?1:0)-(keys.has('a')||keys.has('arrowleft')?1:0);let dz=touch.z+(keys.has('s')||keys.has('arrowdown')?1:0)-(keys.has('w')||keys.has('arrowup')?1:0);
     if(assist){const target=journey.assistedTarget;const distance=Math.hypot(target.x-journey.position.x,target.z-journey.position.z);if(distance<.12){assist=false;}else{dx=(target.x-journey.position.x)/distance;dz=(target.z-journey.position.z)/distance;}}
     const length=Math.hypot(dx,dz);journey.update(dt,length>.01);
-    if(!journey.inside){const stop=journey.vehiclePosition;const half=journey.scenario.mode==='parent'?1.9:journey.scenario.mode==='after_school_shuttle'?2.5:3.8;journey.obstacles=stop?[stop.z>=7?{minX:stop.x-half,maxX:stop.x+half,minZ:stop.z-1.35,maxZ:stop.z+1.35}:{minX:stop.x-1.35,maxX:stop.x+1.35,minZ:stop.z-half,maxZ:stop.z+half}]:[];}
+    if(!journey.inside){const stop=journey.vehiclePosition;const half=journey.scenario.mode==='parent'?1.9:journey.scenario.mode==='after_school_shuttle'?2.5:3.8;journey.obstacles=stop?[stop.z>=7||journey.scenario.mode==='parent'?{minX:stop.x-half,maxX:stop.x+half,minZ:stop.z-1.35,maxZ:stop.z+1.35}:{minX:stop.x-1.35,maxX:stop.x+1.35,minZ:stop.z-half,maxZ:stop.z+half}]:[];}
     if(length>.01){const from={...journey.position};const factor=speed*dt/Math.max(1,length);journey.move(dx*factor,dz*factor);world.face(from,journey.position);}
     const destination=journey.current;
     if(destination?.id==='destination'&&destination.action==='finish'&&journey.steps[journey.index-1]?.id==='cross'&&Math.hypot(journey.position.x-destination.target.x,journey.position.z-destination.target.z)<.45)interact('finish');

diff --git a/src/data/scenarios.ts b/src/data/scenarios.ts
@@ -21,7 +21,7 @@ export const scenarios:Scenario[]=[
 ];
 export function validateScenario(s:Scenario){
   if(s.mode==='school_bus'&&(!s.stop||s.stop.z<7))throw new Error('V2.4：校車只能在校門外停靠');
-  if(s.mode==='parent'&&(!s.stop||s.stop.z<7||s.stop.x< -20||s.stop.x>14||Math.abs(s.stop.x-crossingMainX)<4||Math.hypot(s.stop.x-routes.school_bus.stop.x,s.stop.z-routes.school_bus.stop.z)<10))throw new Error('汽車接送限正門兩側示意區，且不得與校車或行穿線重疊');
+  if(s.mode==='parent'&&(!s.stop||s.stop.z<5.5||s.stop.z>6.5||s.stop.x< -20||s.stop.x>14||Math.abs(s.stop.x-crossingMainX)<4||Math.hypot(s.stop.x-routes.school_bus.stop.x,s.stop.z-routes.school_bus.stop.z)<10))throw new Error('汽車接送限正門兩側路側示意區，且不得與校車、行人道或行穿線重疊');
   if(s.mode==='scooter'&&(!s.stop||s.id==='scooter_main'&&Math.hypot(s.stop.x+1,s.stop.z-6.5)>1||s.id==='scooter_side'&&Math.hypot(s.stop.x+38,s.stop.z+14)>2||[routes.parent.stop,routes.parent_east.stop].some(car=>Math.hypot(s.stop!.x-car.x,s.stop!.z-car.z)<6)))throw new Error('機車送學須設在正門車道邊或側門獨立示意點，不得與汽車臨停區混用');
   if(s.mode==='after_school_shuttle'&&(!s.stop||s.stop.x> -2||s.stop.z>=0))throw new Error('V2.4：安親班接駁車只使用核准廣場示意格位');
 }

diff --git a/README.md b/README.md
@@ -29,7 +29,7 @@ npm run preview
 2. 靠近金色地點按「開始練習」，從地圖當下位置進入實作流程。地圖中的「輔助定位」可把角色帶到所選地點的安全等候區；步行方向也可在地圖選擇。每種練習右上方都有「復歸練習」與「離開練習」：復歸從本次安全起點重來，離開則回到大地圖的本次起點；暫停與錯誤提示中也有這兩個按鈕，已記錄的匿名安全操作仍保留。安親班接駁在獨立示意目的地完成後，按「回到本次起點大地圖」會用輔助定位返回，避免角色困在沒有步行連接的區域。
 3. 走近練習中的金色圓圈，按 E 或互動鍵，也可點 3D 標記、車門、扶手與座椅。「前往標記」是單手替代走路，仍受相同碰撞及安全檢查，不自動互動。
 4. 路口先實際停步、看左、看右，再等綠燈、轉彎車停讓及安全導護，沿斑馬線通行。安全走到對面後直接沿人行步道進校門，不再停下向導護重複確認；走進校門後自動完成步行練習。
-   正門與側門路口現在會在 3D 場景顯示小綠人和車用紅綠燈；車用紅燈時示意車輛停在斑馬線前。畫面上方的狀態條會提示「紅燈停等」「小綠人亮起」「車已停讓」；即使亮綠燈仍須完成停看與確認停讓。車輛靠站時也會顯示「行進中」及「已停穩」，手機提示不會蓋住方向與互動按鈕。
+   正門與側門路口現在會在 3D 場景顯示小綠人和車用紅綠燈；車用紅燈時示意車輛停在斑馬線前。車輪有可見的輪框輻條，隨車身位移滾動，靠站前減速、煞車燈亮起，停穩後輪子停止；家長汽車在確認停妥前以車外視角顯示。畫面上方的狀態條會提示「紅燈停等」「小綠人亮起」「車已停讓」；即使亮綠燈仍須完成停看與確認停讓。車輛靠站時也會顯示「行進中」及「已停穩」，手機提示不會蓋住方向與互動按鈕。
    正門小門與校園圍牆位於校園和人行道交界，人行道完整保留在圍牆與車道之間，可直接步行進校；四面圍牆僅在受控車行入口及兩處步行門留出開口。側門在復興北路一側的教學街廓，學生由外側街區沿人行道走來，經獨立的斑馬線、號誌與導護後，由上學開放的側門進校。側門圍牆旁是停車場，沒有建築；學生走分隔步道，不進入停車區。進入大地圖先顯示「四面圍牆」鳥瞰，按「回到角色」即可近距離行走；側門可在地圖選取「復興北路側門步行」前往。道路角度、停車格、號誌與門口尺寸仍是教學示意，待現勘確認。
 5. 安親班接駁：**站在正門朝校外看**，左側是樹蔭／學生步道，中央是連續錐鏈，右側是小型接駁車。學生沿錐鏈內側的步道走到正門小門；集合 → 星星 01 核對 → 隊尾等候 → 成人確認 → 指定口 → 車門 → 02A → 拖曳／點按扣好帶扣 → 乘車 → 停穩解扣 → 依序下車 → 示意目的地交接。校車只在校門外獨立區域。
 6. 家長汽車**上學送學**位於正門兩側短暫停靠示意區，學生從車內開始，不必在校門集合、核對車號或排隊上車。等家長停妥後解帶、看車門後方來車與自行車、選靠人行道側下車、關門並走到人行道，再依號誌及車流走斑馬線進校。家長確認安全後儘速駛離；遊戲不以操作速度計分，也不鼓勵匆忙開門。機車送學分在正門車道邊緣與復興北路側門口的獨立示意點，**機車不沿人行道行駛**；大地圖上可見前車先駛離、後車再入位。學生保持安全帽與坐穩，停穩後確認後方與行人再下車、走回步道，避免與兩側汽車短停混流。黃線實際臨停規則、時段與格位須依現場標誌和校方安排核實，遊戲不作真實停車指引。
@@ -72,6 +72,8 @@ build 自動產生靜態資源清單與 Service Worker。preview 首次下載並
 - 公開版本是交通安全**教學示意**，不是現地停靠、號誌或動線指引。`picture/`、根目錄 HEIC 照片及本機產物不納入 Git；未取得學生影像公開授權。
 
 2026-11-05 過街入校修正：正門與側門完成斑馬線安全操作後，直接沿步道進校並自動完成，不再重複停下向導護確認。最新本機 lint、typecheck、379 項單元測試與 build 通過；正側門入校 2 項、三尺寸步行與相關接送 7 項瀏覽器回歸，以及正式版離線／三尺寸 4 項通過。現地位置與手機實機仍待核對。
+
+2026-11-05 車輛動態修正：路口汽車、家長汽車、機車、校車、接駁車及三節機捷模型加入可滾動的 3D 輪框輻條，輪轉依實際位移計算；路口與靠站車輛在停車前減速、亮煞車燈，停車時輪子靜止。家長汽車停靠示意點調到路側黃線，停妥前顯示車外視角，再切回車內操作。本機 lint、typecheck、380 項單元測試、build、8 項相關瀏覽器測試與 4 項正式版離線／三尺寸測試通過；詳見 `docs/TEST_REPORT.md`。示意車位和路線仍待現地核對。
 
 2026-11-04 捷運視線與復歸修正：站內、月台、車廂與手機畫面已檢查主角可見；13 種練習的復歸／離開與暫停、錯誤提示路徑已通過定向瀏覽器測試。最新本機 lint、typecheck、378 項單元測試、build、正式版離線與三尺寸預覽 4/4 通過；機捷完整旅程通過。完整其他旅程未在本輪重跑，詳見 `docs/TEST_REPORT.md`。
 

diff --git a/docs/TEST_REPORT.md b/docs/TEST_REPORT.md
@@ -2,6 +2,12 @@
 
 日期：2026-11-05（Asia/Taipei）。Windows 開發環境。
 
+## 2026-11-05 車輪滾動、減速與停穩
+
+- 原創 3D 車輪加上輪框、五支輻條及輪轂；依車身實際位移更新輪角，不以文字或固定時間假裝轉動。正側門汽車、機車、家長汽車、校車、接駁車及三節機捷共用輪組。路口和接送車靠站前使用減速曲線，煞車燈亮起，車停穩後輪角不再變化；安全評估器仍須取得真正的 `vehicleStopped` 才允許上下車。
+- 家長汽車未完成「確認停妥」時，鏡頭展示外側車身、輪子與路側黃線；確認後切換車內解帶操作。兩側汽車停靠示意座標由人行道移至路緣車道，單元測試確認停靠點不在人行空間。已目視檢查動態與停穩截圖 `screenshots/wheels-rolling-1366.png`、`screenshots/wheels-stopped-1366.png`、`screenshots/parent-wheels-rolling-1366.png`、`screenshots/parent-wheels-stopped-1366.png`。
+- 最終程式碼執行 `npm install`（0 弱點）、`npm run lint`、`npm run typecheck`、`npm run test`（380/380）及 `npm run build` 全部通過。Playwright 車輪滾動／停住與側門手機機車 2/2；校車、公車、正門兩側家長汽車、正門機車完整流程及家長汽車移動中禁止下車 6/6。正式版 `npm run test:offline` 4/4，含離線重載與 1366×768、768×1024、390×844 操作；本機預覽 HTTP 200。三尺寸預覽截圖已目視檢查，操作鈕未橫向溢出。iOS／Android 實機與現地煞車距離、停靠區仍待核實。
+
 ## 2026-11-05 過街後直接入校
 
 - 正門與復興北路側門在安全通過斑馬線後，下一個步驟直接是沿人行步道進校；移除對側安全區的第二次導護確認。過街前停步、左右觀察、小綠人與車輛停讓仍需完成，側門停車場及圍牆阻擋仍有效。到達校門後自動完成，無需再按一次「抵達」。

diff --git a/docs/PROGRESS.md b/docs/PROGRESS.md
@@ -1,5 +1,12 @@
 # 開發進度 — V2.4 開放式大地圖
 
+2026-11-05 車輛 3D 動態與停靠視覺修正：
+
+- [x] 車輛輪胎改為可辨識的原創輪框與輻條；路口汽車、家長汽車、校車、安親班接駁、機車及三節機捷的輪組依車身實際位移轉動，停止時同步靜止。路口與接送車輛靠近停靠點逐漸減速，煞車燈在減速／停穩時亮起。
+- [x] 家長汽車到站前使用車外視角顯示車身與輪子；停妥並由玩家確認後才切到車內解帶及下車。正門兩側汽車示意停靠點從人行道移到路側黃線區，保留靠人行道側下車與後方觀察條件。
+- [x] `npm install` 無弱點，lint、typecheck、380/380 單元測試、build 通過。車輪與停穩 3D 瀏覽器測試、手機側門機車 2/2；校車、公車、正門兩側家長汽車、正門機車完整流程與移動中禁止下車 6/6；正式版離線／三尺寸 4/4 通過。本機預覽 HTTP 200，截圖已目視檢查，細節見 `docs/TEST_REPORT.md`。
+- [ ] 各車速、煞車距離、短停格位、號誌秒數均為教學示意，須現勘與校方核對；iOS／Android 實機表現尚未驗收。
+
 2026-11-05 步行入校流程修正：
 
 - [x] 正門與復興北路側門的步行、導護及相關接送流程，移除斑馬線後的第二次「向導護確認」；通過前仍須停、看左右、等小綠人及車輛停讓。到對側後沿人行步道進校，抵達校門時自動完成，不再要求額外互動。
